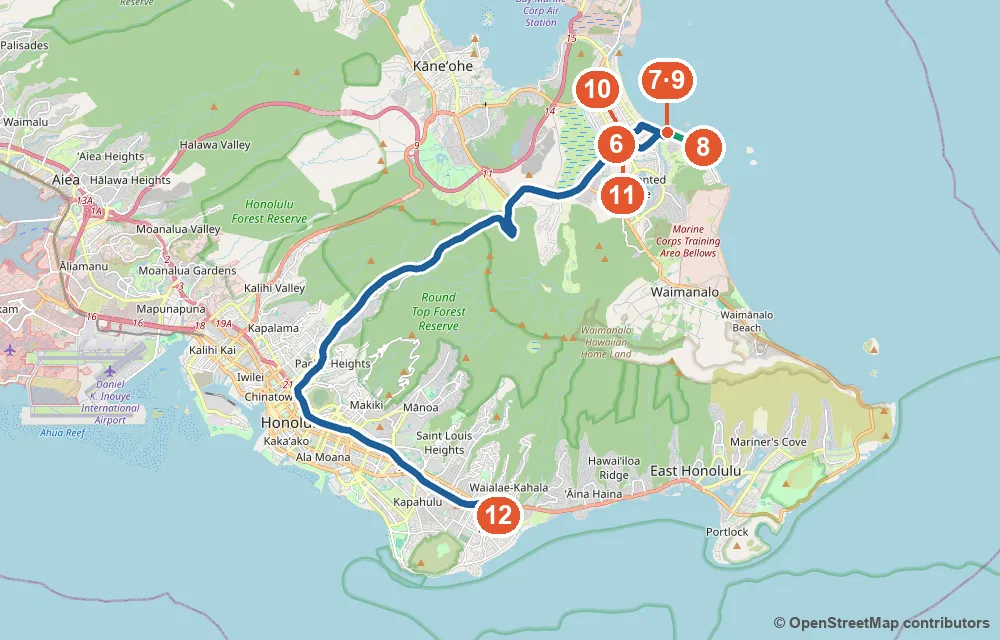
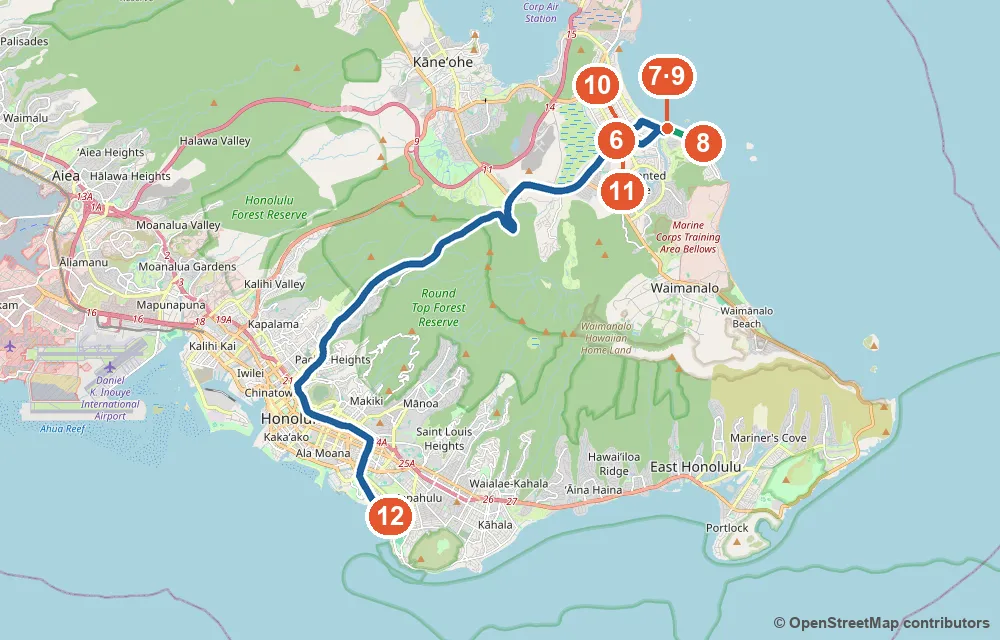
feat: 11/6 dinner → Tiki's Grill & Bar (16k reviews, next to hotel)

diff --git a/index.html b/index.html
@@ -12,7 +12,7 @@
 // GitHub Pages 는 HTML 을 10분 캐시한다(헤더는 못 바꿈) → 열 때마다 version.json 을 캐시 없이 확인해
 // 새 버전이면 주소에 ?v=버전 을 붙여 한 번만 새로 불러온다 (같은 버전으로 이미 시도했으면 멈춤)
 (function () {
-  var BUILD = '5863f6de89';
+  var BUILD = '2e85387f81';
   try {
     fetch('version.json?t=' + Date.now(), { cache: 'no-store' })
       .then(function (r) { return r.ok ? r.json() : null; })
@@ -340,7 +340,7 @@ footer { max-width: 1100px; margin: 0 auto; padding: 0 16px 48px; color: var(--m
 
 <div class="wx-summary">🌤 <b>날씨</b> 낮 27~30°C · 밤 21~24°C · 비 확률 대부분 15~30% (11/10만 65%, 짧은 소나기) · 동북동 무역풍 낮 평균 초속 5~8m · 돌풍 15~19m (모자 턱끈) · 일몰 17:52 — <span>미국 기상청 + Open-Meteo 수치모델 (11/3) · 날짜별 비 확률·기온·바람은 각 일정 맨 위에</span></div>
 <section class="sec alert"><div class="sec-head"><span class="sec-ic">🚨</span><h2 id="지금-예약확인할-것">지금 예약·확인할 것</h2></div>
-<div class="todo-grid"><div class="todo"><span class="when">예약 ✅ <strong>예약 완료 (11/5)</strong></span><h4><strong>다이아몬드헤드</strong> 입장+주차</h4><div class="visit">📅 <span>가는 날</span> <strong>11/7 (토) 14:00–16:00 주차 + 5명 입장</strong> · $35 결제 끝</div><div class="where"><a href="https://gostateparks.hawaii.gov/diamondhead" target="_blank" rel="noopener">gostateparks.hawaii.gov/diamondhead</a></div><div class="memo"><strong>14:30까지 주차장 도착</strong> (주차 시간 시작 30분 안 — 늦으면 환불 불가) · 입장 QR 1회용 → 티켓 내려받아 폰에 저장</div></div><div class="todo"><span class="when">예약 ✅ <strong>예약 완료 (작은형)</strong></span><h4><strong>USS Arizona</strong> (진주만)</h4><div class="visit">📅 <span>가는 날</span> <strong>11/5 (목) 10:45 투어</strong> · 5명</div><div class="where"><a href="https://recreation.gov" target="_blank" rel="noopener">recreation.gov</a></div><div class="memo"><strong>09:45까지 방문자센터 도착</strong> (공식: 1시간 전) · 극장 체크인 10:45의 10~15분 전 · 가방 반입 금지 (지갑·폰·물병만) · 주차 $7</div></div><div class="todo"><span class="when">예약 지금</span><h4>저녁 예약 (5명)</h4><div class="visit">📅 <span>가는 날</span> <del>11/4 DECK.</del> (❌ 취소 — 마루가메 우동으로) · <strong>11/6 (금)</strong> 🫒 Olive Tree Cafe (예약 없음 · 워크인) · <strong>11/7 (토) 19:15</strong> 🍚 <strong>Suntory</strong> (일식 · 훌라 쇼 뒤 · OpenTable)</div><div class="where">전화·OpenTable</div><div class="memo">🍝 <strong>11/5 Arancino di Mare</strong> (메리어트 1층)는 OpenTable 예약 권장 — <del>Yard House</del>는 뺌 (11/4) · 11/9 Waikiki Brewing은 <strong>예약 없이</strong> 바로 가요</div></div><div class="todo"><span class="when">예약 지금</span><h4>아침 예약 (5명)</h4><div class="visit">📅 <span>가는 날</span> <strong>11/8 (일) 08:00</strong> Duke's 조식 뷔페 · <strong>11/10 (화) 07:15</strong> Heavenly</div><div class="where">OpenTable · 전화</div><div class="memo">Duke's 조식 성인 $29 (07:00–11:00) · Heavenly는 아침 5인 예약 되는지 전화로 확인 (☎ 808-923-1100)</div></div><div class="todo"><span class="when">예약 지금</span><h4>PCC 패키지 (5명)</h4><div class="visit">📅 <span>가는 날</span> <strong>11/10 (화)</strong> 12:25 도착 · 루아우 16:40경 · 공연 19:15</div><div class="where"><a href="https://polynesia.com" target="_blank" rel="noopener">polynesia.com</a></div><div class="memo">일·수 휴무 · 운전 부담 크면 PCC 왕복 버스 $28/인</div></div></div>
+<div class="todo-grid"><div class="todo"><span class="when">예약 ✅ <strong>예약 완료 (11/5)</strong></span><h4><strong>다이아몬드헤드</strong> 입장+주차</h4><div class="visit">📅 <span>가는 날</span> <strong>11/7 (토) 14:00–16:00 주차 + 5명 입장</strong> · $35 결제 끝</div><div class="where"><a href="https://gostateparks.hawaii.gov/diamondhead" target="_blank" rel="noopener">gostateparks.hawaii.gov/diamondhead</a></div><div class="memo"><strong>14:30까지 주차장 도착</strong> (주차 시간 시작 30분 안 — 늦으면 환불 불가) · 입장 QR 1회용 → 티켓 내려받아 폰에 저장</div></div><div class="todo"><span class="when">예약 ✅ <strong>예약 완료 (작은형)</strong></span><h4><strong>USS Arizona</strong> (진주만)</h4><div class="visit">📅 <span>가는 날</span> <strong>11/5 (목) 10:45 투어</strong> · 5명</div><div class="where"><a href="https://recreation.gov" target="_blank" rel="noopener">recreation.gov</a></div><div class="memo"><strong>09:45까지 방문자센터 도착</strong> (공식: 1시간 전) · 극장 체크인 10:45의 10~15분 전 · 가방 반입 금지 (지갑·폰·물병만) · 주차 $7</div></div><div class="todo"><span class="when">예약 지금</span><h4>저녁 예약 (5명)</h4><div class="visit">📅 <span>가는 날</span> <del>11/4 DECK.</del> (❌ 취소 — 마루가메 우동으로) · <strong>11/6 (금) 18:00</strong> 🗿 Tiki's Grill &amp; Bar (OpenTable · 테라스 요청) · <strong>11/7 (토) 19:15</strong> 🍚 <strong>Suntory</strong> (일식 · 훌라 쇼 뒤 · OpenTable)</div><div class="where">전화·OpenTable</div><div class="memo">🍝 <strong>11/5 Arancino di Mare</strong> (메리어트 1층)는 OpenTable 예약 권장 — <del>Yard House</del>는 뺌 (11/4) · 11/9 Waikiki Brewing은 <strong>예약 없이</strong> 바로 가요</div></div><div class="todo"><span class="when">예약 지금</span><h4>아침 예약 (5명)</h4><div class="visit">📅 <span>가는 날</span> <strong>11/8 (일) 08:00</strong> Duke's 조식 뷔페 · <strong>11/10 (화) 07:15</strong> Heavenly</div><div class="where">OpenTable · 전화</div><div class="memo">Duke's 조식 성인 $29 (07:00–11:00) · Heavenly는 아침 5인 예약 되는지 전화로 확인 (☎ 808-923-1100)</div></div><div class="todo"><span class="when">예약 지금</span><h4>PCC 패키지 (5명)</h4><div class="visit">📅 <span>가는 날</span> <strong>11/10 (화)</strong> 12:25 도착 · 루아우 16:40경 · 공연 19:15</div><div class="where"><a href="https://polynesia.com" target="_blank" rel="noopener">polynesia.com</a></div><div class="memo">일·수 휴무 · 운전 부담 크면 PCC 왕복 버스 $28/인</div></div></div>
 
 </section><section class="sec flight"><div class="sec-head"><span class="sec-ic">✈</span><h2 id="항공-서울팀-3명-현지-시각">항공</h2><small>서울팀 3명 (현지 시각)</small></div>
 <div class="tickets"><div class="ticket"><div class="tk-top"><span>가는 편</span><b>KE053</b></div><div class="route"><div class="city"><small>11/4 (수)</small><b>20:50</b><span>ICN · 인천 T2</span></div><div class="plane">✈</div><div class="city r"><small>11/4 (수)</small><b>09:40</b><span>HNL · 호놀룰루</span></div></div><div class="tk-meta"><div><span>공항 도착 목표</span><b>17:50</b></div><div><span>체크인 마감</span><b>19:50</b></div><div><span>탑승 시작</span><b>20:15</b></div></div></div><div class="ticket"><div class="tk-top"><span>오는 편</span><b>KE054</b></div><div class="route"><div class="city"><small>11/11 (수)</small><b>12:05</b><span>HNL · 호놀룰루</span></div><div class="plane">✈</div><div class="city r"><small>11/12 (목)</small><b>17:35</b><span>ICN · 인천 T2</span></div></div><div class="tk-meta"><div><span>공항 도착 목표</span><b>08:20</b></div><div><span>체크인 마감</span><b>출발 1시간 전</b></div><div><span>탑승 시작</span><b>11:30</b></div></div></div></div>
@@ -354,7 +354,7 @@ footer { max-width: 1100px; margin: 0 auto; padding: 0 16px 48px; color: var(--m
 </section><section class="sec hotel"><div class="sec-head"><span class="sec-ic">🏨</span><h2 id="숙소-메리어트-3박-비치타워-콘도-4박-걸어서-3분">숙소</h2><small>메리어트 3박 · 비치타워 콘도 4박 (걸어서 3분)</small></div>
 <div class="tickets"><div class="hotel"><div class="tk-top"><span>11/4 (수) – 11/7 (토) · 3박 · 아고다</span></div><div class="ht-name">와이키키 비치 메리어트 리조트 &amp; 스파</div><div class="ht-times"><div><span>체크인</span><b>15:00</b><small>11/4 (수)</small></div><div><span>체크아웃</span><b>11:00</b><small>11/7 (토)</small></div></div><dl class="ht-facts"><dt>☎ 전화</dt><dd><ul class="ht-fac"><li>한국에서 <strong>001-1-808-922-6611</strong> (KT 001 · LG U+ 002 · SK 00700)</li><li>휴대폰은 <strong><a href="tel:+18089226611">+1 808 922 6611</a></strong> (누르면 바로 걸려요)</li><li>프런트 24시간 · 하와이는 한국보다 19시간 늦어요</li></ul></dd><dt>🛏 방</dt><dd><strong>객실 2개 예약 확정</strong> — 방 1: 시티뷰 퀸 1 또는 더블 2 (성인 2) · 방 2: 와이키키 시티뷰 킹 1 + 소파베드, 발코니 (성인 3) — <strong>침대는 킹 1 + 소파베드뿐</strong> (추가 침대·침대 2개 방 변경 안 됨, 11/3 확인)</dd><dt>🚿 욕실</dt><dd>객실마다 1개</dd><dt>🍳 조식</dt><dd><strong>방마다 성인 2명 포함</strong> (전화 확인 11/3) — 2번 방 세 번째 사람은 <strong>추가 요금</strong> · 2층 Kuhio Beach Grill 뷔페 (05:00–11:00)</dd><dt>🅿 주차</dt><dd><strong>호텔 셀프 주차</strong> $65/일 · 발렛 $80/일 (세금 별도 · 셀프 3박 약 $204) — 근처 반얀 주차장은 24시간 $50 (공사 중 요금 · 높이 183cm 제한)이라 하루 $15 정도 차이 · ⚠ 후기: 셀프 주차장이 좁고 자주 꽉 차서 발렛으로 돌린 일, SUV가 높아 못 들어가 발렛 쓴 일 있음 (2024~2026) · <strong>미리 예약 필요 없음</strong> (11/3 호텔 확인)</dd><dt>🏝 시설</dt><dd><ul class="ht-fac"><li>🏊 <strong>수영장 2개</strong> — 옥상 Queensbreak에 가족 풀 + 21세 이상 성인 풀, 온수 욕조 (07:00–22:00)</li><li>🍽 <strong>식당·바·카페 7곳</strong> — Kuhio Beach Grill (조식 뷔페 05–11, 2층) · Arancino di Mare (이탈리안 저녁 17–21) · Queensbreak 레스토랑·풀사이드 바 (옥상 11–23) · 스타벅스 2곳 · Island Vintage 셰이브아이스 — Sansei·DK Steakhouse는 2025.9 폐업</li><li>🛒 <strong>ABC 스토어</strong> (로비층 편의점)</li><li>🧺 <strong>셀프 세탁실</strong> (Paoakalani 타워 2층) — 세탁·건조 각 $6.50 (2026.5 투숙 후기), 카드 결제 · 드라이클리닝 서비스 별도</li><li>💆 Royal Kaila 스파 (09–18) · 피트니스 24시간</li><li>🌺 우쿨렐레·훌라·레이 만들기 수업 (리조트피 포함)</li><li>🎭 Paina Waikiki 루아우 디너쇼 (월·수·금·토·일, 별도 예약)</li><li>🗣 일본어 직원 있음 · 한국어 직원 없음 (11/3 전화 확인)</li></ul></dd></dl><ul class="ht-notes"><li>11/4 체크인 전·11/7 체크아웃 뒤 <strong>벨데스크 짐 보관</strong></li><li>리조트피 객실당 1박 $59 + 세금 (약 $70, 현장 결제 — Wi-Fi·비치체어 또는 부기보드·문화 수업 포함)</li><li>체크인은 예약자 본인 여권 + 실물 카드</li></ul></div><div class="hotel"><div class="tk-top"><span>11/7 (토) – 11/11 (수) · 4박</span></div><div class="ht-name">와이키키 비치 타워 콘도 (에어비앤비)</div><div class="ht-times"><div><span>체크인</span><b>15:00</b><small>11/7 (토)</small></div><div><span>체크아웃</span><b>11:00</b><small>11/11 (수)</small></div></div><dl class="ht-facts"><dt>☎ 전화</dt><dd><ul class="ht-fac"><li>관리 회사(캡틴 쿡 리조트)는 <strong>에어비앤비 앱 메시지</strong></li><li>관리자 전화번호는 11/5 15:00(하와이)부터 앱의 입실 안내에 나와요</li></ul></dd><dt>🛏 방</dt><dd><strong>침실 2개</strong> — 안방 킹 1 · 게스트룸 트윈 2 (요청 시 킹 1) · 거실 퀸 소파베드 · 최대 6명 · 실내 약 107㎡ + 오션뷰 발코니</dd><dt>🚿 욕실</dt><dd><strong>2개</strong> (안방 전용 1 + 공용 1)</dd><dt>🍳 조식</dt><dd>없음 — 주방 완비, 아침은 장봐서</dd><dt>🅿 주차</dt><dd><strong>발렛 1대 무료</strong> (차 높이 188cm까지, 셔틀 크기 밴 불가) · 차량 사전 등록 필요 없음 · 머무는 동안만 · 리조트피 없음</dd><dt>🏝 시설</dt><dd><ul class="ht-fac"><li>🧺 집 안 <strong>세탁기·건조기</strong> (무료)</li><li>🏊 건물 수영장·스파·피트니스</li><li>🍳 주방 완비</li></ul></dd></dl><ul class="ht-notes"><li>체크인·체크아웃 시각은 <strong>에어비앤비 예약·호스트 안내 기준</strong></li><li>도착 후 <strong>관리자에게 전화</strong>해서 체크인</li><li>매일 청소·수건 보충 없음</li><li>커피·조미료·식용유·지퍼백 없음</li></ul></div></div>
 </section><section class="sec overview"><div class="sec-head"><span class="sec-ic">🗓</span><h2 id="1-한눈에-보기">한눈에 보기</h2></div>
-<div class="ov-grid"><a class="ov c0" href="#114-수-도착-짐부터-호텔에-가볍게"><div class="ov-head"><b>11/4</b><em>수</em><span>도착</span></div><ul><li><i>🛍</i>월마트 / 돈키호테 (장보기)</li><li><i>🍳</i>기내</li><li><i>🍱</i>Highway Inn 카카아코</li><li><i>🍽</i>🌅 DECK. 일몰 (17:30)</li></ul></a><a class="ov c1" href="#115-목-진주만-와이켈레-아울렛"><div class="ov-head"><b>11/5</b><em>목</em><span>진주만</span></div><ul><li><i>🛍</i><strong>와이켈레 아울렛</strong></li><li><i>🍳</i>메리어트 조식</li><li><i>🍱</i>Restaurant 604</li><li><i>🍽</i>🍝 Arancino (호텔 1층)</li></ul></a><a class="ov c2" href="#116-금-동부-해안-카일루아-해안-먼저-저녁은-카일루아"><div class="ov-head"><b>11/6</b><em>금</em><span>동부 해안</span></div><ul><li><i>🥾</i><strong>마카푸우 등대</strong> · (선택, 아들) 라니카이 필박스</li><li><i>🛍</i><strong>카일루아</strong> 마노아 초콜릿·Whole Foods·타운</li><li><i>🍳</i>메리어트 조식</li><li><i>🍱</i>Kalapawai Café</li><li><i>🍽</i>🫒 <strong>Olive Tree</strong> (그리스식 · 워크인)</li></ul></a><a class="ov c3" href="#117-토-kcc-파머스마켓-다이아몬드헤드-알라모아나-숙소-이동"><div class="ov-head"><b>11/7</b><em>토</em><span>이동일</span></div><ul><li><i>🥾</i><strong>다이아몬드헤드</strong> (오후 14시 · 다시 예약)</li><li><i>🛍</i><strong>KCC 파머스마켓 · 🖼 호놀룰루 미술관 · 알라모아나</strong> · 저녁 전 IMP·로열 하와이안 (걸어서)</li><li><i>🍳</i>메리어트 조식</li><li><i>🍱</i>릴리하 베이커리 (알라모아나)</li><li><i>🍽</i>🌺 훌라 쇼 → 🍚 <strong>Suntory</strong> (일식)</li></ul></a><a class="ov c4" href="#118-일-노스쇼어-종일"><div class="ov-head"><b>11/8</b><em>일</em><span>노스쇼어</span></div><ul><li><i>🥾</i><strong>와이메아 밸리 폭포</strong> · 헤이아우 전망</li><li><i>🛍</i><strong>할레이바 타운</strong> · 돌 플랜테이션</li><li><i>🍳</i>Duke's 조식 뷔페</li><li><i>🍱</i>Giovanni's</li><li><i>🍽</i>Haleiwa Joe's (노을)</li></ul></a><a class="ov c5" href="#119-월-서쪽-해안-93번-드라이브-쇼핑-와이키키-마지막-여유일"><div class="ov-head"><b>11/9</b><em>월</em><span>서쪽 해안·쇼핑</span></div><ul><li><i>🥾</i><strong>93번 서쪽 해안 드라이브</strong> (코올리나 라군·마카하·요코하마 베이)</li><li><i>🛍</i><strong>워드 빌리지 · 돈키호테·월마트</strong></li><li><i>🍳</i>Café Kaila / Hau Tree</li><li><i>🍱</i>Monkeypod Kitchen (코올리나)</li><li><i>🍽</i>🍺 <strong>Waikiki Brewing</strong></li></ul></a><a class="ov c6" href="#1110-화-뵤도인-폴리네시안-문화센터-pcc"><div class="ov-head"><b>11/10</b><em>화</em><span>PCC</span></div><ul><li><i>🥾</i><strong>팔리 전망대 · 뵤도인 사원</strong> (또는 호오말루히아)</li><li><i>🛍</i>후킬라우 마켓플레이스</li><li><i>🍳</i>Heavenly (07:00~)</li><li><i>🍱</i>Seven Brothers / Giovanni's 카후쿠</li><li><i>🍽</i>PCC 루아우</li></ul></a><a class="ov c7" href="#1111-수-출발-veterans-day-공휴일"><div class="ov-head"><b>11/11</b><em>수</em><span>출발</span></div><ul><li><i>🍳</i>Eggs 'n Things 포장 (06:00)</li><li><i>🍱</i>기내</li></ul></a></div>
+<div class="ov-grid"><a class="ov c0" href="#114-수-도착-짐부터-호텔에-가볍게"><div class="ov-head"><b>11/4</b><em>수</em><span>도착</span></div><ul><li><i>🛍</i>월마트 / 돈키호테 (장보기)</li><li><i>🍳</i>기내</li><li><i>🍱</i>Highway Inn 카카아코</li><li><i>🍽</i>🌅 DECK. 일몰 (17:30)</li></ul></a><a class="ov c1" href="#115-목-진주만-와이켈레-아울렛"><div class="ov-head"><b>11/5</b><em>목</em><span>진주만</span></div><ul><li><i>🛍</i><strong>와이켈레 아울렛</strong></li><li><i>🍳</i>메리어트 조식</li><li><i>🍱</i>Restaurant 604</li><li><i>🍽</i>🍝 Arancino (호텔 1층)</li></ul></a><a class="ov c2" href="#116-금-동부-해안-카일루아-해안-먼저-저녁은-카일루아"><div class="ov-head"><b>11/6</b><em>금</em><span>동부 해안</span></div><ul><li><i>🥾</i><strong>마카푸우 등대</strong> · (선택, 아들) 라니카이 필박스</li><li><i>🛍</i><strong>카일루아</strong> 마노아 초콜릿·Whole Foods·타운</li><li><i>🍳</i>메리어트 조식</li><li><i>🍱</i>Kalapawai Café</li><li><i>🍽</i>🗿 <strong>Tiki's</strong> (호텔 옆 테라스 · 예약)</li></ul></a><a class="ov c3" href="#117-토-kcc-파머스마켓-다이아몬드헤드-알라모아나-숙소-이동"><div class="ov-head"><b>11/7</b><em>토</em><span>이동일</span></div><ul><li><i>🥾</i><strong>다이아몬드헤드</strong> (오후 14시 · 다시 예약)</li><li><i>🛍</i><strong>KCC 파머스마켓 · 🖼 호놀룰루 미술관 · 알라모아나</strong> · 저녁 전 IMP·로열 하와이안 (걸어서)</li><li><i>🍳</i>메리어트 조식</li><li><i>🍱</i>릴리하 베이커리 (알라모아나)</li><li><i>🍽</i>🌺 훌라 쇼 → 🍚 <strong>Suntory</strong> (일식)</li></ul></a><a class="ov c4" href="#118-일-노스쇼어-종일"><div class="ov-head"><b>11/8</b><em>일</em><span>노스쇼어</span></div><ul><li><i>🥾</i><strong>와이메아 밸리 폭포</strong> · 헤이아우 전망</li><li><i>🛍</i><strong>할레이바 타운</strong> · 돌 플랜테이션</li><li><i>🍳</i>Duke's 조식 뷔페</li><li><i>🍱</i>Giovanni's</li><li><i>🍽</i>Haleiwa Joe's (노을)</li></ul></a><a class="ov c5" href="#119-월-서쪽-해안-93번-드라이브-쇼핑-와이키키-마지막-여유일"><div class="ov-head"><b>11/9</b><em>월</em><span>서쪽 해안·쇼핑</span></div><ul><li><i>🥾</i><strong>93번 서쪽 해안 드라이브</strong> (코올리나 라군·마카하·요코하마 베이)</li><li><i>🛍</i><strong>워드 빌리지 · 돈키호테·월마트</strong></li><li><i>🍳</i>Café Kaila / Hau Tree</li><li><i>🍱</i>Monkeypod Kitchen (코올리나)</li><li><i>🍽</i>🍺 <strong>Waikiki Brewing</strong></li></ul></a><a class="ov c6" href="#1110-화-뵤도인-폴리네시안-문화센터-pcc"><div class="ov-head"><b>11/10</b><em>화</em><span>PCC</span></div><ul><li><i>🥾</i><strong>팔리 전망대 · 뵤도인 사원</strong> (또는 호오말루히아)</li><li><i>🛍</i>후킬라우 마켓플레이스</li><li><i>🍳</i>Heavenly (07:00~)</li><li><i>🍱</i>Seven Brothers / Giovanni's 카후쿠</li><li><i>🍽</i>PCC 루아우</li></ul></a><a class="ov c7" href="#1111-수-출발-veterans-day-공휴일"><div class="ov-head"><b>11/11</b><em>수</em><span>출발</span></div><ul><li><i>🍳</i>Eggs 'n Things 포장 (06:00)</li><li><i>🍱</i>기내</li></ul></a></div>
 
 </section><section class="sec days"><div class="sec-head"><span class="sec-ic">📍</span><h2 id="2-날짜별-상세-시간-장소-주차">날짜별 상세</h2><small>시간 · 장소 · 주차</small></div>
 <blockquote>
@@ -375,7 +375,7 @@ footer { max-width: 1100px; margin: 0 auto; padding: 0 16px 48px; color: var(--m
 </ul>
 </div></article><article class="day c2" data-date="11/6"><div class="day-head"><div class="date-badge"><b>11/6</b><span>금요일</span></div><div class="day-title"><h3 id="116-금-동부-해안-카일루아-해안-먼저-저녁은-카일루아">동부 해안 → 카일루아 (해안 먼저, 저녁은 카일루아)</h3></div></div><div class="day-body">
 <p class="wx">🌤 마카푸우 ☔ 14% · 🌡 24~27°C · 💨 평균 초속 8m · 돌풍 19m (북동) / 카일루아 ☔ 29% (밤 35%) · 🌡 24~27°C · 💨 평균 초속 6.2m · 돌풍 15m (북동) — 마카푸우는 이번 주 바람이 가장 세요 → 모자 턱끈 · 카일루아는 지나가는 소나기</p>
-<figure class="routemap"><img src="maps/1106.webp?v=7cfec8b581" loading="lazy" width="1000" height="640" alt="11/6 지도"><figcaption><div class="rm-stops"><b>①</b> 메리어트 → <b>②</b> Island Brew 커피 → <b>③</b> 라나이 전망대 → <b>④</b> 할로나 블로홀 → <b>⑤</b> 마카푸우 등대 트레일 → <b>⑥</b> Kalapawai Café → <b>⑦</b> 카일루아 비치파크 → <b>⑧</b> 라니카이 비치 → <b>⑨</b> 카일루아 비치파크 → <b>⑩</b> 마노아 초콜릿 → <b>⑪</b> Whole Foods 카일루아 → <b>⑫</b> Olive Tree → <b>⑬</b> 메리어트</div><div class="rm-meta">🚗 하루 운전 약 76km · 막히지 않으면 약 1시간 50분 · 파란 선 = 차 · 초록 선 = 걷기</div><div class="rm-links">🧭 구글 지도 길찾기 <a href="https://www.google.com/maps/dir/?api=1&amp;origin=Waikiki+Beach+Marriott+Resort+%26+Spa+2552+Kalakaua+Ave&amp;destination=Makapuu+Point+Lighthouse+Trail+parking&amp;travelmode=driving&amp;waypoints=Island+Brew+Coffeehouse+377+Keahole+St+Honolulu%7CLanai+Lookout+Oahu%7CHalona+Blowhole+Lookout" target="_blank" rel="noopener">①→⑤</a><a href="https://www.google.com/maps/dir/?api=1&amp;origin=Makapuu+Point+Lighthouse+Trail+parking&amp;destination=Kailua+Beach+Park&amp;travelmode=driving&amp;waypoints=Kalapawai+Cafe+%26+Deli+750+Kailua+Rd+Kailua" target="_blank" rel="noopener">⑤→⑦</a><a href="https://www.google.com/maps/dir/?api=1&amp;origin=Kailua+Beach+Park&amp;destination=Kailua+Beach+Park&amp;travelmode=walking&amp;waypoints=Lanikai+Beach+Mokulua+Dr+Kailua" target="_blank" rel="noopener">🚶 ⑦→⑨</a><a href="https://www.google.com/maps/dir/?api=1&amp;origin=Kailua+Beach+Park&amp;destination=Waikiki+Beach+Marriott+Resort+%26+Spa+2552+Kalakaua+Ave&amp;travelmode=driving&amp;waypoints=Manoa+Chocolate+Hawaii+333+Uluniu+St+Kailua%7CWhole+Foods+Market+Kailua%7COlive+Tree+Cafe+4614+Kilauea+Ave+Honolulu" target="_blank" rel="noopener">⑨→⑬</a></div></figcaption><details class="rm-zoom"><summary>🔍 확대 지도 — 카일루아 (⑥~⑫)</summary><img src="maps/1106-zoom.webp?v=7cfec8b581" loading="lazy" width="1000" height="640" alt="11/6 카일루아 확대 지도"></details></figure><div class="gallery"><figure><a href="https://commons.wikimedia.org/wiki/File:Makapuu_point_light.JPG" target="_blank" rel="noopener"><img src="https://upload.wikimedia.org/wikipedia/commons/e/e4/Makapuu_point_light.JPG?utm_source=commons.wikimedia.org&utm_campaign=imageinfo&utm_content=thumbnail_unscaled" alt="마카푸우 등대" loading="lazy" decoding="async"></a><figcaption><b>마카푸우 등대</b><small>© Wikimedia Commons · Public domain</small></figcaption></figure><figure><a href="https://commons.wikimedia.org/wiki/File:Halona_Blowhole_a0002860.jpg" target="_blank" rel="noopener"><img src="https://thumb.wikimedia.org/wikipedia/commons/thumb/3/34/Halona_Blowhole_a0002860.jpg/960px-Halona_Blowhole_a0002860.jpg?utm_source=commons.wikimedia.org&utm_campaign=imageinfo&utm_content=thumbnail" alt="할로나 블로홀" loading="lazy" decoding="async"></a><figcaption><b>할로나 블로홀</b><small>© This file was created by Thomas Tunsch.  · CC BY-SA 4.0</small></figcaption></figure><figure><a href="https://commons.wikimedia.org/wiki/File:Lanikai_Beach,_Hawaii.JPG" target="_blank" rel="noopener"><img src="https://thumb.wikimedia.org/wikipedia/commons/thumb/1/1f/Lanikai_Beach%2C_Hawaii.JPG/960px-Lanikai_Beach%2C_Hawaii.JPG?utm_source=commons.wikimedia.org&utm_campaign=imageinfo&utm_content=thumbnail" alt="라니카이 비치" loading="lazy" decoding="async"></a><figcaption><b>라니카이 비치</b><small>© Cristo Vlahos · CC BY-SA 3.0</small></figcaption></figure><figure><a href="https://commons.wikimedia.org/wiki/File:Kailua_Beach_Park_-_Oahu_-_Hawaii.jpg" target="_blank" rel="noopener"><img src="https://thumb.wikimedia.org/wikipedia/commons/thumb/3/36/Kailua_Beach_Park_-_Oahu_-_Hawaii.jpg/960px-Kailua_Beach_Park_-_Oahu_-_Hawaii.jpg?utm_source=commons.wikimedia.org&utm_campaign=imageinfo&utm_content=thumbnail" alt="카일루아 비치" loading="lazy" decoding="async"></a><figcaption><b>카일루아 비치</b><small>© Tony Webster · CC BY 2.0</small></figcaption></figure></div><ol class="tl"><li><div class="t">08:00–08:50</div><div class="c"><div class="place">메리어트</div><div class="what">조식 (포함)</div></div></li><li><div class="t">09:00</div><div class="c"><div class="place">호텔 출발</div><div class="what"><strong>짐·귀중품은 호텔에서 미리 트렁크에</strong></div></div></li><li><div class="t">09:20–09:40</div><div class="c"><div class="place">☕ <a href="https://www.google.com/maps/search/?api=1&query=Island+Brew+Coffeehouse+Hawaii+Kai" target="_blank" rel="noopener"><strong>Island Brew Coffeehouse</strong></a> (하와이카이, 06–18)</div><div class="what">마리나 뷰 커피</div><div class="park">🅿 무료</div></div></li><li><div class="t">09:50–10:10</div><div class="c"><div class="place">라나이 룩아웃 → 할로나 블로홀</div><div class="what">절벽·블로홀 사진, 각 10분 · <strong>전망대 아래 바위로 내려가지 않기</strong> (파도 사고)</div><div class="park">🅿 무료 소형 (15대 / 20~25대)</div></div></li><li><div class="t">10:20–12:05</div><div class="c"><div class="place">🥾 <a href="https://www.google.com/maps/search/?api=1&query=Makapuu+Point+Lighthouse+Trail" target="_blank" rel="noopener"><strong>마카푸우 등대 트레일</strong></a></div><div class="what">한낮 전이라 <strong>물·모자 필수</strong> · 왕복 3.2km 포장길 · +150m · 약 2시간 · <strong>그늘·화장실·식수 없음</strong> · 고래 시즌 시작</div><div class="park">🅿 무료, 07:00 개방, 협소</div><figure class="routemap"><img src="maps/hike-makapuu.webp?v=3348580688" loading="lazy" width="1000" height="640" alt="하이킹: 마카푸우 등대 지도"><figcaption><div class="rm-stops"><b>🥾 마카푸우 등대 코스</b> · <b>①</b> 주차장·입구 → <b>②</b> 정상 전망대 (등대 위)</div><div class="rm-meta">왕복 3.2km · +150m · 포장길 · 그늘·화장실 없음 · 초록 선 = 걷는 길 (대략)</div><div class="rm-links">🧭 구글 지도 <a href="https://www.google.com/maps/search/?api=1&amp;query=21.30456,-157.65677" target="_blank" rel="noopener">📍 입구</a></div></figcaption></figure></div></li><li><div class="t">12:05–12:35</div><div class="c"><div class="place">와이마날로 경유 → 카일루아</div><div class="what">해안 드라이브</div></div></li><li><div class="t">12:35–13:30</div><div class="c"><div class="place"><a href="https://www.google.com/maps/search/?api=1&query=Kalapawai+Cafe+%26+Deli+750+Kailua+Rd+Kailua" target="_blank" rel="noopener"><strong>Kalapawai Café &amp; Deli</strong></a> (06–21)</div><div class="what">점심 — 샌드위치·플랫브레드 · 🍴 <strong>주문: 후리카케 생선 샌드위치·포케볼</strong> (비치 버거는 피하기)</div><div class="park">🅿 자체 lot (미확인)</div></div></li><li><div class="t">13:45–15:30</div><div class="c"><div class="place">카일루아 비치파크 → 라니카이 비치 (도보 15~20분)</div><div class="what">부모님: 해변 산책 + <strong>Island Snow</strong> 빙수 · (선택) 🥾 아들들 <strong>라니카이 필박스</strong> — 비치파크에서 왕복 포함 약 2시간, 초반 로프 급경사</div><div class="park">🅿 <strong>카일루아 비치파크 무료</strong> — 라니카이 Mokulua Dr <strong>종일 주차금지 계획</strong> (시정부 단계별 시행 — 7/1 시행 여부는 확인 불가, 현장 표지판 우선)</div><figure class="routemap"><img src="maps/hike-lanikai.webp?v=a96e10a856" loading="lazy" width="1000" height="640" alt="하이킹: 라니카이 필박스 지도"><figcaption><div class="rm-stops"><b>🥾 라니카이 필박스 코스</b> · <b>①</b> 카일루아 비치파크 → <b>②</b> 입구 (Kaelepulu Dr) → <b>③</b> 두 번째 필박스</div><div class="rm-meta">입구까지 걸어서 15분 + 초반 로프 급경사 흙길 · 난간 없음 · 초록 선 = 걷는 길 (대략)</div><div class="rm-links">🧭 구글 지도 <a href="https://www.google.com/maps/search/?api=1&amp;query=21.397396,-157.7272179" target="_blank" rel="noopener">📍 입구</a></div></figcaption></figure></div></li><li><div class="t">15:45–16:40</div><div class="c"><div class="place">🛍 <strong>카일루아 쇼핑</strong></div><div class="what">🍫 <strong>마노아 초콜릿</strong> (카페 금 08–19 · 시식·기념품 시간은 방문 전 확인 · 가이드북 · 구글 리뷰 1,509 ★4.8) → Whole Foods Kailua (07–22) → (시간 남으면) 카일루아 타운 부티크 · <strong>16:50 카할라로 출발</strong> (팔리 하이웨이 경유 약 30분)</div><div class="park">🅿 매장별 무료 lot</div></div></li><li><div class="t">17:30–18:45</div><div class="c"><div class="place">🫒 <a href="https://www.google.com/maps/search/?api=1&query=Olive+Tree+Cafe+4614+Kilauea+Ave+Honolulu" target="_blank" rel="noopener"><strong>Olive Tree Cafe</strong></a> (카할라몰 옆 4614 Kilauea Ave · 금 17:00–21:00 · <strong>예약 안 받음, 워크인</strong>)</div><div class="what">저녁 — <strong>그리스식</strong> (구글 508 ★4.4) · 치킨 수블라키·팔라펠·구운 가지 · 카운터 주문 캐주얼 · 1인 $20–30 · <strong>현금 넉넉히</strong> (카드 가능 여부 현장 확인) · 옆 와인숍에서 사 와서 마셔도 돼요(BYOB) · <del>Buzz's</del>는 전화 예약·가격·스테이크 중복으로 뺌 (11/5)</div><div class="park">🅿 <strong>카할라몰 무료 주차</strong></div></div></li><li><div class="t">18:50–19:05</div><div class="c"><div class="place">와이키키로 (카할라에서 15분)</div><div class="what">팔리 전망대는 <strong>11/10 아침에 들러요</strong></div></div></li></ol>
+<figure class="routemap"><img src="maps/1106.webp?v=bb832bce98" loading="lazy" width="1000" height="640" alt="11/6 지도"><figcaption><div class="rm-stops"><b>①</b> 메리어트 → <b>②</b> Island Brew 커피 → <b>③</b> 라나이 전망대 → <b>④</b> 할로나 블로홀 → <b>⑤</b> 마카푸우 등대 트레일 → <b>⑥</b> Kalapawai Café → <b>⑦</b> 카일루아 비치파크 → <b>⑧</b> 라니카이 비치 → <b>⑨</b> 카일루아 비치파크 → <b>⑩</b> 마노아 초콜릿 → <b>⑪</b> Whole Foods 카일루아 → <b>⑫</b> 메리어트 → <b>⑬</b> Tiki's → <b>⑭</b> 메리어트</div><div class="rm-meta">🚗 하루 운전 약 69km · 막히지 않으면 약 1시간 41분 · 파란 선 = 차 · 초록 선 = 걷기</div><div class="rm-links">🧭 구글 지도 길찾기 <a href="https://www.google.com/maps/dir/?api=1&amp;origin=Waikiki+Beach+Marriott+Resort+%26+Spa+2552+Kalakaua+Ave&amp;destination=Makapuu+Point+Lighthouse+Trail+parking&amp;travelmode=driving&amp;waypoints=Island+Brew+Coffeehouse+377+Keahole+St+Honolulu%7CLanai+Lookout+Oahu%7CHalona+Blowhole+Lookout" target="_blank" rel="noopener">①→⑤</a><a href="https://www.google.com/maps/dir/?api=1&amp;origin=Makapuu+Point+Lighthouse+Trail+parking&amp;destination=Kailua+Beach+Park&amp;travelmode=driving&amp;waypoints=Kalapawai+Cafe+%26+Deli+750+Kailua+Rd+Kailua" target="_blank" rel="noopener">⑤→⑦</a><a href="https://www.google.com/maps/dir/?api=1&amp;origin=Kailua+Beach+Park&amp;destination=Kailua+Beach+Park&amp;travelmode=walking&amp;waypoints=Lanikai+Beach+Mokulua+Dr+Kailua" target="_blank" rel="noopener">🚶 ⑦→⑨</a><a href="https://www.google.com/maps/dir/?api=1&amp;origin=Kailua+Beach+Park&amp;destination=Waikiki+Beach+Marriott+Resort+%26+Spa+2552+Kalakaua+Ave&amp;travelmode=driving&amp;waypoints=Manoa+Chocolate+Hawaii+333+Uluniu+St+Kailua%7CWhole+Foods+Market+Kailua" target="_blank" rel="noopener">⑨→⑫</a><a href="https://www.google.com/maps/dir/?api=1&amp;origin=Waikiki+Beach+Marriott+Resort+%26+Spa+2552+Kalakaua+Ave&amp;destination=Waikiki+Beach+Marriott+Resort+%26+Spa+2552+Kalakaua+Ave&amp;travelmode=walking&amp;waypoints=Tikis+Grill+%26+Bar+2570+Kalakaua+Ave+Honolulu" target="_blank" rel="noopener">🚶 ⑫→⑭</a></div></figcaption><details class="rm-zoom"><summary>🔍 확대 지도 — 카일루아 (⑥~⑫)</summary><img src="maps/1106-zoom.webp?v=bb832bce98" loading="lazy" width="1000" height="640" alt="11/6 카일루아 확대 지도"></details></figure><div class="gallery"><figure><a href="https://commons.wikimedia.org/wiki/File:Makapuu_point_light.JPG" target="_blank" rel="noopener"><img src="https://upload.wikimedia.org/wikipedia/commons/e/e4/Makapuu_point_light.JPG?utm_source=commons.wikimedia.org&utm_campaign=imageinfo&utm_content=thumbnail_unscaled" alt="마카푸우 등대" loading="lazy" decoding="async"></a><figcaption><b>마카푸우 등대</b><small>© Wikimedia Commons · Public domain</small></figcaption></figure><figure><a href="https://commons.wikimedia.org/wiki/File:Halona_Blowhole_a0002860.jpg" target="_blank" rel="noopener"><img src="https://thumb.wikimedia.org/wikipedia/commons/thumb/3/34/Halona_Blowhole_a0002860.jpg/960px-Halona_Blowhole_a0002860.jpg?utm_source=commons.wikimedia.org&utm_campaign=imageinfo&utm_content=thumbnail" alt="할로나 블로홀" loading="lazy" decoding="async"></a><figcaption><b>할로나 블로홀</b><small>© This file was created by Thomas Tunsch.  · CC BY-SA 4.0</small></figcaption></figure><figure><a href="https://commons.wikimedia.org/wiki/File:Lanikai_Beach,_Hawaii.JPG" target="_blank" rel="noopener"><img src="https://thumb.wikimedia.org/wikipedia/commons/thumb/1/1f/Lanikai_Beach%2C_Hawaii.JPG/960px-Lanikai_Beach%2C_Hawaii.JPG?utm_source=commons.wikimedia.org&utm_campaign=imageinfo&utm_content=thumbnail" alt="라니카이 비치" loading="lazy" decoding="async"></a><figcaption><b>라니카이 비치</b><small>© Cristo Vlahos · CC BY-SA 3.0</small></figcaption></figure><figure><a href="https://commons.wikimedia.org/wiki/File:Kailua_Beach_Park_-_Oahu_-_Hawaii.jpg" target="_blank" rel="noopener"><img src="https://thumb.wikimedia.org/wikipedia/commons/thumb/3/36/Kailua_Beach_Park_-_Oahu_-_Hawaii.jpg/960px-Kailua_Beach_Park_-_Oahu_-_Hawaii.jpg?utm_source=commons.wikimedia.org&utm_campaign=imageinfo&utm_content=thumbnail" alt="카일루아 비치" loading="lazy" decoding="async"></a><figcaption><b>카일루아 비치</b><small>© Tony Webster · CC BY 2.0</small></figcaption></figure></div><ol class="tl"><li><div class="t">08:00–08:50</div><div class="c"><div class="place">메리어트</div><div class="what">조식 (포함)</div></div></li><li><div class="t">09:00</div><div class="c"><div class="place">호텔 출발</div><div class="what"><strong>짐·귀중품은 호텔에서 미리 트렁크에</strong></div></div></li><li><div class="t">09:20–09:40</div><div class="c"><div class="place">☕ <a href="https://www.google.com/maps/search/?api=1&query=Island+Brew+Coffeehouse+Hawaii+Kai" target="_blank" rel="noopener"><strong>Island Brew Coffeehouse</strong></a> (하와이카이, 06–18)</div><div class="what">마리나 뷰 커피</div><div class="park">🅿 무료</div></div></li><li><div class="t">09:50–10:10</div><div class="c"><div class="place">라나이 룩아웃 → 할로나 블로홀</div><div class="what">절벽·블로홀 사진, 각 10분 · <strong>전망대 아래 바위로 내려가지 않기</strong> (파도 사고)</div><div class="park">🅿 무료 소형 (15대 / 20~25대)</div></div></li><li><div class="t">10:20–12:05</div><div class="c"><div class="place">🥾 <a href="https://www.google.com/maps/search/?api=1&query=Makapuu+Point+Lighthouse+Trail" target="_blank" rel="noopener"><strong>마카푸우 등대 트레일</strong></a></div><div class="what">한낮 전이라 <strong>물·모자 필수</strong> · 왕복 3.2km 포장길 · +150m · 약 2시간 · <strong>그늘·화장실·식수 없음</strong> · 고래 시즌 시작</div><div class="park">🅿 무료, 07:00 개방, 협소</div><figure class="routemap"><img src="maps/hike-makapuu.webp?v=3348580688" loading="lazy" width="1000" height="640" alt="하이킹: 마카푸우 등대 지도"><figcaption><div class="rm-stops"><b>🥾 마카푸우 등대 코스</b> · <b>①</b> 주차장·입구 → <b>②</b> 정상 전망대 (등대 위)</div><div class="rm-meta">왕복 3.2km · +150m · 포장길 · 그늘·화장실 없음 · 초록 선 = 걷는 길 (대략)</div><div class="rm-links">🧭 구글 지도 <a href="https://www.google.com/maps/search/?api=1&amp;query=21.30456,-157.65677" target="_blank" rel="noopener">📍 입구</a></div></figcaption></figure></div></li><li><div class="t">12:05–12:35</div><div class="c"><div class="place">와이마날로 경유 → 카일루아</div><div class="what">해안 드라이브</div></div></li><li><div class="t">12:35–13:30</div><div class="c"><div class="place"><a href="https://www.google.com/maps/search/?api=1&query=Kalapawai+Cafe+%26+Deli+750+Kailua+Rd+Kailua" target="_blank" rel="noopener"><strong>Kalapawai Café &amp; Deli</strong></a> (06–21)</div><div class="what">점심 — 샌드위치·플랫브레드 · 🍴 <strong>주문: 후리카케 생선 샌드위치·포케볼</strong> (비치 버거는 피하기)</div><div class="park">🅿 자체 lot (미확인)</div></div></li><li><div class="t">13:45–15:30</div><div class="c"><div class="place">카일루아 비치파크 → 라니카이 비치 (도보 15~20분)</div><div class="what">부모님: 해변 산책 + <strong>Island Snow</strong> 빙수 · (선택) 🥾 아들들 <strong>라니카이 필박스</strong> — 비치파크에서 왕복 포함 약 2시간, 초반 로프 급경사</div><div class="park">🅿 <strong>카일루아 비치파크 무료</strong> — 라니카이 Mokulua Dr <strong>종일 주차금지 계획</strong> (시정부 단계별 시행 — 7/1 시행 여부는 확인 불가, 현장 표지판 우선)</div><figure class="routemap"><img src="maps/hike-lanikai.webp?v=a96e10a856" loading="lazy" width="1000" height="640" alt="하이킹: 라니카이 필박스 지도"><figcaption><div class="rm-stops"><b>🥾 라니카이 필박스 코스</b> · <b>①</b> 카일루아 비치파크 → <b>②</b> 입구 (Kaelepulu Dr) → <b>③</b> 두 번째 필박스</div><div class="rm-meta">입구까지 걸어서 15분 + 초반 로프 급경사 흙길 · 난간 없음 · 초록 선 = 걷는 길 (대략)</div><div class="rm-links">🧭 구글 지도 <a href="https://www.google.com/maps/search/?api=1&amp;query=21.397396,-157.7272179" target="_blank" rel="noopener">📍 입구</a></div></figcaption></figure></div></li><li><div class="t">15:45–16:40</div><div class="c"><div class="place">🛍 <strong>카일루아 쇼핑</strong></div><div class="what">🍫 <strong>마노아 초콜릿</strong> (카페 금 08–19 · 시식·기념품 시간은 방문 전 확인 · 가이드북 · 구글 리뷰 1,509 ★4.8) → Whole Foods Kailua (07–22) → (시간 남으면) 카일루아 타운 부티크 · <strong>16:45 와이키키로 출발</strong></div><div class="park">🅿 매장별 무료 lot</div></div></li><li><div class="t">16:45–17:40</div><div class="c"><div class="place">와이키키로 (팔리 하이웨이 경유)</div><div class="what">팔리 전망대는 <strong>11/10 아침에 들러요</strong> · 호텔에서 잠깐 쉬기</div></div></li><li><div class="t">18:00–19:30</div><div class="c"><div class="place">🗿 <strong>Tiki's Grill &amp; Bar</strong> (메리어트 바로 옆 2570 Kalakaua 2층 · ☎ 808-923-8454)</div><div class="what">저녁 — <strong>해변 전망 테라스·라이브 음악</strong> (구글 16,187 ★4.7 — 이 동네 최고 인기) · 🍴 <strong>주문: 구아바 립 · 아히 포케 원톤 슬라이더 · 생선 요리</strong> (마카다미아 크러스트 생선·코코넛 새우는 11/8과 겹침) · <strong>OpenTable 18:00 예약 — 일몰 17:54, 테라스 자리 요청</strong> · <del>Olive Tree</del>(리뷰 508)는 인기 부족으로 다시 교체 (11/5)</div><div class="park">🅿 호텔 옆 — 도보 1분</div></div></li></ol>
 
 
 
@@ -384,11 +384,11 @@ footer { max-width: 1100px; margin: 0 auto; padding: 0 16px 48px; color: var(--m
 <li>☔ 카일루아에서 소나기 오면: 쇼핑(마노아 초콜릿·Whole Foods)을 먼저 하고 해변은 갠 뒤에 — 무역풍 소나기는 보통 10~20분이면 지나감</li>
 <li>쇼핑을 줄이면 <strong>호오말루히아 식물원</strong> (무료, 금 09–16) 추가 가능 · 뵤도인은 <strong>11/10</strong>로 옮김 (이날 넣으면 이동시간이 안 맞음)</li>
 <li>점심 대안: Moena Cafe (코코 마리나, 07–14)</li>
-<li>저녁 대안: <strong>Buzz's Original Steak House</strong> (카일루아 비치 앞 · ☎ 808-261-4661 전화 예약 · 스테이크 $30–50 · 16:30 이후 민소매 불가) — 원래 계획이던 곳</li>
+<li>저녁 대안: <strong>Paia Fish Market</strong> (쿠히오 길 · 워크인 · 생선 플레이트 $20–30 · 4,654 ★4.6) · <strong>Buzz's</strong> (카일루아 · ☎ 808-261-4661 전화 예약 — 원래 계획이던 곳)</li>
 <li>B안 (저녁을 하와이카이에서): 팔리 하이웨이 → 카일루아 점심·쇼핑 → 15:00 마카푸우 → 할로나 → 17:30 <strong>Roy's Hawaii Kai</strong> (16:30–21:30, OpenTable) — 마카푸우를 더운 오후에 걷는 단점</li>
 <li>하나우마 베이: 금요일 영업 · 이틀 전 07:00 HST 예약 → <strong>작은형이 11/4 07:00에 예약 가능</strong>. 넣으려면 마카푸우·카일루아 일부를 빼고 대체 (추가하지 않기)</li>
 <li>코코 크레이터 계단·마우나윌리 폭포(2021년부터 폐쇄)는 제외</li>
-<li>🎆 선택: <strong>힐튼 금요일 불꽃놀이 19:45</strong> (힐튼 하와이안 빌리지 앞바다) — 저녁이 18:45쯤 끝나니 19:15 와이키키 서쪽 도착이 가능해요 · 귀환길에 잠깐 (공식 안내 기준)</li>
+<li>🎆 선택: <strong>힐튼 금요일 불꽃놀이 19:45</strong> (힐튼 하와이안 빌리지 앞바다) — 저녁(18:00–19:30) 뒤 택시 7분이면 맞출 수 있어요 · 보고 싶으면 디저트는 생략 (공식 안내 기준)</li>
 </ul>
 </div></article><article class="day c3" data-date="11/7"><div class="day-head"><div class="date-badge"><b>11/7</b><span>토요일</span></div><div class="day-title"><h3 id="117-토-kcc-파머스마켓-다이아몬드헤드-알라모아나-숙소-이동">KCC 파머스마켓 → 다이아몬드헤드 → 알라모아나 → 숙소 이동</h3></div></div><div class="day-body">
 <p class="wx">🌤 다이아몬드헤드 ☔ 19% · 🌡 24~29°C · 💨 평균 초속 6m · 돌풍 18m (북동) — 오전 한때 소나기 뒤 갬 · 그늘 없음 → 물·모자 필수</p>
@@ -497,8 +497,8 @@ footer { max-width: 1100px; margin: 0 auto; padding: 0 16px 48px; color: var(--m
 </tr>
 <tr>
 <td data-label="날짜"><span class="v">11/6</span></td>
-<td data-label="겹치는 메뉴"><span class="v">없음 — 저녁이 그리스식 (11/5 변경)</span></td>
-<td data-label="이렇게 주문"><span class="v">자유롭게</span></td>
+<td data-label="겹치는 메뉴"><span class="v">마카다미아 생선·코코넛 새우 (저녁 Tiki's ↔ 11/8)</span></td>
+<td data-label="이렇게 주문"><span class="v">저녁은 <strong>구아바 립·포케 원톤</strong> 위주</span></td>
 </tr>
 <tr>
 <td data-label="날짜"><span class="v">11/8</span></td>
@@ -606,9 +606,9 @@ footer { max-width: 1100px; margin: 0 auto; padding: 0 16px 48px; color: var(--m
 </tr>
 <tr>
 <td data-label="끼니"><span class="v">저녁</span></td>
-<td data-label="식당"><span class="v">🫒 <strong>Olive Tree Cafe</strong> (예약 없음 · 워크인)</span></td>
-<td data-label="대표 메뉴 · 가격"><span class="v">치킨 수블라키 · 팔라펠 · 구운 가지 · 피타 (1인 $20–30)</span></td>
-<td data-label="분위기 · 특징"><span class="v">카할라몰 옆 <strong>그리스식</strong> 동네 맛집 (508 ★4.4) · 카운터 주문 · 캐주얼 · 현금 위주 · 돌아오는 길목이라 동선 손해 없음<br>🍴 <strong>치킨 수블라키 위주</strong><br>👨👩👦 <strong>4인 세트:</strong> 수블라키 콤보 ×2 + 팔라펠 + 구운 가지 + 피타 추가<br>🔁 <strong>안 맞으면:</strong> 치킨 케밥 플레이트 · 수프·샐러드 <em>(현장 메뉴판)</em> / 원래 계획이던 Buzz's (카일루아 · 전화 예약)<br>↔ <strong>겹침:</strong> 없음 — 이번 여행 유일한 그리스식이에요</span></td>
+<td data-label="식당"><span class="v">🗿 <strong>Tiki's Grill &amp; Bar</strong> (예약 18:00 · OpenTable)</span></td>
+<td data-label="대표 메뉴 · 가격"><span class="v">구아바 립 · 마카다미아 생선 · 아히 포케 원톤 (1인 $35–60)</span></td>
+<td data-label="분위기 · 특징"><span class="v">메리어트 <strong>바로 옆</strong> 2층 — 해변 전망 테라스 · 라이브 음악 · <strong>16,187 ★4.7, 이 일대 최고 인기</strong> · 일몰 17:54를 테라스에서<br>🍴 <strong>구아바 립 + 포케 원톤 + 생선 하나</strong><br>👨👩👦 <strong>4인 세트:</strong> 구아바 립 ×2 + 생선 요리 + 포케 원톤 슬라이더 + 샐러드<br>🔁 <strong>안 맞으면:</strong> 버거·샐러드류 <em>(현장 메뉴판)</em> / Paia Fish Market (워크인 · $20–30)<br>↔ <strong>겹침:</strong> 마카다미아 크러스트 생선·코코넛 새우 → 11/8 Haleiwa Joe's와 겹침 (립·포케 원톤은 안 겹쳐요)</span></td>
 </tr>
 </tbody>
 </table></div>
@@ -809,7 +809,7 @@ footer { max-width: 1100px; margin: 0 auto; padding: 0 16px 48px; color: var(--m
 <h3 id="식당카페디저트-상위-40">🍽 식당·카페·디저트 (상위 40)</h3>
 <ol>
 <li><strong>듀크스 와이키키 (Duke's Waikiki)</strong> · 와이키키 · 19,643 · ★4.4 — ✅ 11/8 아침 (조식 뷔페) · ↪ 11/7 저녁 대안</li>
-<li><strong>티키스 그릴 (Tiki's Grill &amp; Bar)</strong> · 와이키키 · 16,115 · ★4.7 — ↪ 11/4 저녁 대안</li>
+<li><strong>티키스 그릴 (Tiki's Grill &amp; Bar)</strong> · 와이키키 · 16,115 · ★4.7 — ✅ 11/6 저녁 (11/5 변경)</li>
 <li><strong>레너드스 베이커리 (Leonard's Bakery)</strong> · 다이아몬드헤드·카파훌루·카이무키 · 13,628 · ★4.6 — ✅ 11/5 간식(트럭) 📖</li>
 <li><strong>마루가메 우동 (Marugame Udon Waikiki)</strong> · 와이키키 · 13,440 · ★4.5 — ↪ 11/8 저녁 대안 📖</li>
 <li><strong>지오반니 할레이바 (Giovanni's Shrimp Truck Haleiwa)</strong> · 노스쇼어·라이에 · 10,449 · ★4.1 — ✅ 11/8 점심 📖</li>
@@ -850,7 +850,7 @@ footer { max-width: 1100px; margin: 0 auto; padding: 0 16px 48px; color: var(--m
 <li><strong>부호 코치나 (BUHO Cocina y Cantina)</strong> · 와이키키 · 2,721 · ★4 —  📖</li>
 </ol>
 <ul>
-<li>순위 밖 일정 장소: 세븐 브라더스 라이에 (Seven Brothers Burgers Laie) 2,564 (11/10 점심) · 아란치노 디 마레 (Arancino di Mare) 2,489 (✅ 11/5 저녁 — 11/4 변경) · 레스토랑 산토리 (Restaurant SUNTORY) 1,280 ★4.5 (✅ 11/7 저녁 — 11/5 변경) · 올리브 트리 카페 (Olive Tree Cafe) 508 ★4.4 (✅ 11/6 저녁 — 11/5 변경) · 코코 헤드 카페 (Koko Head Cafe) 2,245 (11/9 아침 대안) · 하우 트리 (Hau Tree (Kaimana Beach Hotel)) 1,975 (11/10 아침 대안) · 카페 카일라 (Cafe Kaila) 1,789 (11/9 아침) · 무스비 카페 이야스메 (Musubi Cafe Iyasume) 1,644 (11/11 간식) · 로미스 (Romy's Kahuku Prawns &amp; Shrimp) 1,598 (11/8 점심 대안) · 포티 나이너 (Forty Niner Restaurant Aiea) 1,573 (11/5 점심 대안) · Side Street Inn Waikiki 1,564 (11/5 저녁 대안) · 마노아 초콜릿 (Manoa Chocolate Hawaii (Kailua)) 1,509 (11/6 쇼핑) · 아일랜드 브루 커피하우스 (Island Brew Coffeehouse Hawaii Kai) 1,463 (11/6 커피) · 카이 커피 (Kai Coffee Hawaii) 1,397 (11/11 커피) · 릴리하 베이커리 알라모아나 (Liliha Bakery Ala Moana) 1,394 (11/7 점심) · 로이스 하와이카이 (Roy's Hawaii Kai) 1,283 (11/6 저녁 대안) · 칼라파와이 카페 (Kalapawai Cafe &amp; Deli) 1,268 (11/6 점심) · 미셸스 (Michel's at the Colony Surf) 1,249 (11/9 저녁 대안) · 하이웨이 인 와이파후 (Highway Inn Waipahu) 1,235 (11/5 점심 대안) · 메리먼스 호놀룰루 (Merriman's Honolulu) 1,077 (11/9 점심 대안) · 모에나 카페 (Moena Cafe) 933 (11/6 점심 대안) · 아일랜드 빈티지 커피 할레이바 (Island Vintage Coffee Haleiwa) 739 (11/8 아사이볼 대안) · 아일랜드 스노우 (Island Snow Hawaii) 648 (11/6 빙수) · 모닝 브루 (Morning Brew Kakaako) 545 (11/9 커피) · 로라 이모네 (Laura's Korean BBQ (Young's Lunch Wagon Korean BBQ)) 313 (11/8 점심 대안) · 호놀룰루 커피 베이커리 온 킹 (Honolulu Coffee Bakery on King) 56 (11/9 커피 대안) · 마카이 마켓 푸드코트 (Makai Market Food Court) 41 (11/7 점심 대안)</li>
+<li>순위 밖 일정 장소: 세븐 브라더스 라이에 (Seven Brothers Burgers Laie) 2,564 (11/10 점심) · 아란치노 디 마레 (Arancino di Mare) 2,489 (✅ 11/5 저녁 — 11/4 변경) · 레스토랑 산토리 (Restaurant SUNTORY) 1,280 ★4.5 (✅ 11/7 저녁 — 11/5 변경) · 코코 헤드 카페 (Koko Head Cafe) 2,245 (11/9 아침 대안) · 하우 트리 (Hau Tree (Kaimana Beach Hotel)) 1,975 (11/10 아침 대안) · 카페 카일라 (Cafe Kaila) 1,789 (11/9 아침) · 무스비 카페 이야스메 (Musubi Cafe Iyasume) 1,644 (11/11 간식) · 로미스 (Romy's Kahuku Prawns &amp; Shrimp) 1,598 (11/8 점심 대안) · 포티 나이너 (Forty Niner Restaurant Aiea) 1,573 (11/5 점심 대안) · Side Street Inn Waikiki 1,564 (11/5 저녁 대안) · 마노아 초콜릿 (Manoa Chocolate Hawaii (Kailua)) 1,509 (11/6 쇼핑) · 아일랜드 브루 커피하우스 (Island Brew Coffeehouse Hawaii Kai) 1,463 (11/6 커피) · 카이 커피 (Kai Coffee Hawaii) 1,397 (11/11 커피) · 릴리하 베이커리 알라모아나 (Liliha Bakery Ala Moana) 1,394 (11/7 점심) · 로이스 하와이카이 (Roy's Hawaii Kai) 1,283 (11/6 저녁 대안) · 칼라파와이 카페 (Kalapawai Cafe &amp; Deli) 1,268 (11/6 점심) · 미셸스 (Michel's at the Colony Surf) 1,249 (11/9 저녁 대안) · 하이웨이 인 와이파후 (Highway Inn Waipahu) 1,235 (11/5 점심 대안) · 메리먼스 호놀룰루 (Merriman's Honolulu) 1,077 (11/9 점심 대안) · 모에나 카페 (Moena Cafe) 933 (11/6 점심 대안) · 아일랜드 빈티지 커피 할레이바 (Island Vintage Coffee Haleiwa) 739 (11/8 아사이볼 대안) · 아일랜드 스노우 (Island Snow Hawaii) 648 (11/6 빙수) · 모닝 브루 (Morning Brew Kakaako) 545 (11/9 커피) · 로라 이모네 (Laura's Korean BBQ (Young's Lunch Wagon Korean BBQ)) 313 (11/8 점심 대안) · 호놀룰루 커피 베이커리 온 킹 (Honolulu Coffee Bakery on King) 56 (11/9 커피 대안) · 마카이 마켓 푸드코트 (Makai Market Food Court) 41 (11/7 점심 대안)</li>
 </ul>
 <h3 id="관광해변하이킹-상위-30">🏝 관광·해변·하이킹 (상위 30)</h3>
 <ol>
@@ -931,7 +931,7 @@ footer { max-width: 1100px; margin: 0 auto; padding: 0 16px 48px; color: var(--m
 - ★4.8 이상 대안은 '리뷰 쓰면 서비스' 여부를 검증해서 의심(⚠)이면 빼요 — 옐프 평점 차이 · 개업 시기 · 현지 글<br />
 - 그 대안이 현지 평가에서 "관광객용"이거나 호불호가 갈리고, 지금 장소에 <strong>지역 수상(Hale ʻAina 등)이나 현지인 추천</strong>이 있으면 그대로 둬요.<br />
 - <strong>마지막 만찬처럼 분위기가 목적인 끼니는 예외</strong>로 해요.</p>
-<p><strong>11/3 추가 변경:</strong> 비싼 저녁 3끼를 <strong>맥주집</strong>으로 바꿨어요 — 11/5 Yard House · 11/7 Maui Brewing 와이키키 · 11/9 Waikiki Brewing (모두 숙소에서 걸어가거나 택시 5분이라 운전자도 같이 마셔요) · <strong>11/4 현지 변경:</strong> 11/4 저녁 DECK.→마루가메 우동 · <strong>11/5 저녁 Yard House→Arancino di Mare · 11/6 저녁 Buzz's→Olive Tree(그리스식) · 11/7 저녁 Maui Brewing→Suntory(일식)</strong> (하와이식 연속·맥주집 분위기 비선호) · <strong>11/8 저녁 Haleiwa Joe's</strong> (16:30 저녁 시작 + 노을, 와이메아 베이 일몰 대신)<br />
+<p><strong>11/3 추가 변경:</strong> 비싼 저녁 3끼를 <strong>맥주집</strong>으로 바꿨어요 — 11/5 Yard House · 11/7 Maui Brewing 와이키키 · 11/9 Waikiki Brewing (모두 숙소에서 걸어가거나 택시 5분이라 운전자도 같이 마셔요) · <strong>11/4 현지 변경:</strong> 11/4 저녁 DECK.→마루가메 우동 · <strong>11/5 저녁 Yard House→Arancino di Mare · 11/6 저녁 Buzz's→Tiki's(호텔 옆 테라스) · 11/7 저녁 Maui Brewing→Suntory(일식)</strong> (하와이식 연속·맥주집 분위기 비선호) · <strong>11/8 저녁 Haleiwa Joe's</strong> (16:30 저녁 시작 + 노을, 와이메아 베이 일몰 대신)<br />
 <strong>결과:</strong> 식사 <strong>4끼를 바꿨어요</strong> — 11/4 저녁 DECK. · 11/5 저녁 Tommy Bahama · 11/8 아침 Duke's 조식 뷔페 · 11/10 아침 Heavenly. 기준에 걸린 나머지 3끼(11/4 점심 · 11/7 점심 · 11/9 아침)는 비교해 보고 그대로 뒀어요. 커피 4곳은 앞서 바꿨고, 트로피컬 팜스는 선택 정차로 더했어요.<br />
 숫자는 11/3에 <strong>구글 지도 API로 직접 받은 값</strong>이에요(리뷰 수 · ★평점). "리뷰 수 1위"는 사람이 가장 많이 갔다는 뜻이고 맛 순위는 아니에요.</p>
 </blockquote>
@@ -991,7 +991,7 @@ footer { max-width: 1100px; margin: 0 auto; padding: 0 16px 48px; color: var(--m
 <td data-label="날짜 · 끼니"><span class="v">11/6 저녁</span></td>
 <td data-label="지금 장소 (리뷰 · ★ · 현지)"><span class="v">Buzz's (2,831 · 4.3 · 👍 야외 식사 은상)</span></td>
 <td data-label="같은 동선 대안"><span class="v">Kona Brewing 하와이카이 (2,290 · 4.5) · Roy's (1,283 · 4.6 · 🤔)</span></td>
-<td data-label="판단"><span class="v"><strong>변경 → Olive Tree Cafe</strong> (11/5) — 전화 예약 부담·가격·스테이크 중복(11/8 Joe's)으로 수 1위예요.</span></td>
+<td data-label="판단"><span class="v"><strong>변경 → Tiki's Grill &amp; Bar</strong> (11/5) — 16,187 ★4.7 · 전화 예약 부담·가격·스테이크 중복(11/8 Joe's)으로 수 1위예요.</span></td>
 </tr>
 <tr>
 <td data-label="날짜 · 끼니"><span class="v">11/7 점심</span></td>
@@ -1190,10 +1190,17 @@ footer { max-width: 1100px; margin: 0 auto; padding: 0 16px 48px; color: var(--m
 </tr>
 <tr>
 <td data-label="날짜 · 끼니"><span class="v">11/6 저녁</span></td>
-<td data-label="식당"><span class="v">🫒 Olive Tree Cafe</span></td>
-<td data-label="대표 메뉴 · 가격"><span class="v">치킨 수블라키·팔라펠·무사카류 $12–25 <em>(추정)</em></span></td>
+<td data-label="식당"><span class="v">🗿 Tiki's Grill &amp; Bar</span></td>
+<td data-label="대표 메뉴 · 가격"><span class="v">구아바 립·마카다미아 생선·포케 원톤 $25–48 <em>(추정)</em></span></td>
+<td data-label="1인 예상"><span class="v">$35–60 <em>(추정)</em></span></td>
+<td data-label="비고"><span class="v">OpenTable · 테라스 요청</span></td>
+</tr>
+<tr>
+<td data-label="날짜 · 끼니"><span class="v">11/6 대안</span></td>
+<td data-label="식당"><span class="v">Paia Fish Market</span></td>
+<td data-label="대표 메뉴 · 가격"><span class="v">생선 플레이트·피시 타코 $20–30</span></td>
 <td data-label="1인 예상"><span class="v">$20–30</span></td>
-<td data-label="비고"><span class="v">그리스식 · 워크인 · 현금 위주</span></td>
+<td data-label="비고"><span class="v">워크인 · 카운터 주문</span></td>
 </tr>
 <tr>
 <td data-label="날짜 · 끼니"><span class="v">11/6 대안</span></td>
@@ -1552,7 +1559,8 @@ footer { max-width: 1100px; margin: 0 auto; padding: 0 16px 48px; color: var(--m
 <li><a href="https://www.google.com/maps/search/?api=1&amp;query=Island+Snow+Hawaii+Kailua" target="_blank" rel="noopener">Island Snow — 빙수</a></li>
 <li><a href="https://www.google.com/maps/search/?api=1&amp;query=Manoa+Chocolate+Hawaii+333+Uluniu+St+Kailua" target="_blank" rel="noopener">마노아 초콜릿 카일루아 — 시식·기념품</a></li>
 <li><a href="https://www.google.com/maps/search/?api=1&amp;query=Whole+Foods+Market+Kailua" target="_blank" rel="noopener">Whole Foods Kailua</a></li>
-<li><a href="https://www.google.com/maps/search/?api=1&amp;query=Olive+Tree+Cafe+4614+Kilauea+Ave+Honolulu" target="_blank" rel="noopener">🫒 Olive Tree Cafe — 저녁 (카할라몰 옆 · 워크인)</a></li>
+<li><a href="https://www.google.com/maps/search/?api=1&amp;query=Tikis+Grill+%26+Bar+2570+Kalakaua+Ave+Honolulu" target="_blank" rel="noopener">🗿 Tiki's Grill &amp; Bar — 저녁 (메리어트 옆 · 테라스)</a></li>
+<li><a href="https://www.google.com/maps/search/?api=1&amp;query=Paia+Fish+Market+Waikiki+2299+Kuhio+Ave" target="_blank" rel="noopener">Paia Fish Market — 저녁 대안 (워크인)</a></li>
 <li><a href="https://www.google.com/maps/search/?api=1&amp;query=Buzz%27s+Original+Steak+House+Kailua" target="_blank" rel="noopener">Buzz's Original Steak House — 저녁 대안 (전화 예약)</a></li>
 <li><a href="https://www.google.com/maps/search/?api=1&amp;query=Roy%27s+Hawaii+Kai" target="_blank" rel="noopener">Roy's Hawaii Kai — 저녁 대안</a></li>
 </ul>
@@ -2148,7 +2156,7 @@ footer { max-width: 1100px; margin: 0 auto; padding: 0 16px 48px; color: var(--m
 · 할로나 블로홀 → 🥾 마카푸우 등대 (물·모자 필수)
 · 🍱 Kalapawai Café → 🏖 카일루아·라니카이 비치
 · 🍫 마노아 초콜릿 · 🛍 Whole Foods (카일루아)
-· 🫒 Olive Tree 그리스식 (카할라 · 예약 없음)
+· 🗿 Tiki's 해변 테라스 저녁 (18:00 예약)
 
 11/7(토) 🖼 KCC·미술관·알라모아나 → ⛰ 다이아몬드헤드 + 숙소 이동
 · 08:00 조식 → 🧳 체크아웃 (짐은 메리어트에 맡기기) → 09:00 택시로 출발 (작은형은 오전 개인 일정)
@@ -2181,7 +2189,7 @@ footer { max-width: 1100px; margin: 0 auto; padding: 0 16px 48px; color: var(--m
 
 ✅ 남은 할 일
 · ✅ USS Arizona 10:45 예약 완료
-· 예약: Suntory(11/7 OpenTable) · Duke's 조식(11/8) · Heavenly(11/10) · PCC
+· 예약: Tiki's(11/6 18:00) · Suntory(11/7 19:15) · Duke's 조식(11/8) · Heavenly(11/10) · PCC
 · ESTA · 여권 · eSIM 설치
 
 🎒 꼭 챙길 것
@@ -2194,7 +2202,7 @@ footer { max-width: 1100px; margin: 0 auto; padding: 0 16px 48px; color: var(--m
 
 ■ 지금 예약·확인 (D-1)
 ☑ 다이아몬드헤드 — ✅ 11/7 (토) 14:00–16:00 주차+5명 입장 예약 완료 (11/5 · $35) · 14:30까지 주차장 도착 · 입장 QR 1회용 → 폰에 저장
-☐ 저녁 예약 — DECK. 11/4 17:30 ✅ 예약 완료 (OpenTable · 서쪽 자리 요청) · 🫒 Olive Tree 11/6 (예약 없음·워크인 — Buzz's는 대안) · 🍚 Suntory 일식 11/7 19:15 (OpenTable · ☎ 808-922-5511) · 11/5 Arancino(메리어트 1층)는 OpenTable 예약 권장 — 다 차면 Appetito ☎ 808-922-1150 · 11/9 Waikiki Brewing은 예약 없이
+☐ 저녁 예약 — DECK. 11/4 17:30 ✅ 예약 완료 (OpenTable · 서쪽 자리 요청) · 🗿 Tiki's 11/6 18:00 (OpenTable · 테라스 요청 — 대안 Paia·Buzz's) · 🍚 Suntory 일식 11/7 19:15 (OpenTable · ☎ 808-922-5511) · 11/5 Arancino(메리어트 1층)는 OpenTable 예약 권장 — 다 차면 Appetito ☎ 808-922-1150 · 11/9 Waikiki Brewing은 예약 없이
 ☐ 아침 예약 — Duke's 조식 뷔페 11/8 08:00 (OpenTable) · Heavenly 11/10 07:15 (5인 예약 되는지 전화 확인 ☎ 808-923-1100)
 ☐ PCC 패키지 — 11/10 (화) · 밤 운전 부담되면 왕복 버스 $28/인
 ☐ 대한항공 앱 — 서울팀 3명 모두 발권
@@ -2236,7 +2244,7 @@ footer { max-width: 1100px; margin: 0 auto; padding: 0 16px 48px; color: var(--m
 ☐ 위탁 수하물 23kg 초과 주의 — 귀국 때 아울렛 쇼핑 짐도
 ☐ 액체류 100ml 이하·투명 지퍼백 (총 1L) · 보조배터리는 기내 가방에</pre></div></section>
 </main>
-<footer>업데이트 2026-11-06 13:42 KST · 영업시간·주차는 2026-11-02 웹 조사 + Codex 검수 기준입니다. (미확인) 항목은 방문 전날 구글맵·전화로 다시 확인하세요. 체크 표시는 이 기기에만 저장됩니다. 사진: Wikimedia Commons 자유 이용 사진 — 사진을 누르면 저작자·라이선스 원문으로 이동합니다.</footer>
+<footer>업데이트 2026-11-06 14:15 KST · 영업시간·주차는 2026-11-02 웹 조사 + Codex 검수 기준입니다. (미확인) 항목은 방문 전날 구글맵·전화로 다시 확인하세요. 체크 표시는 이 기기에만 저장됩니다. 사진: Wikimedia Commons 자유 이용 사진 — 사진을 누르면 저작자·라이선스 원문으로 이동합니다.</footer>
 <button class="top-btn" id="topBtn" aria-label="맨 위로">↑</button>
 <script>
 (function () {
